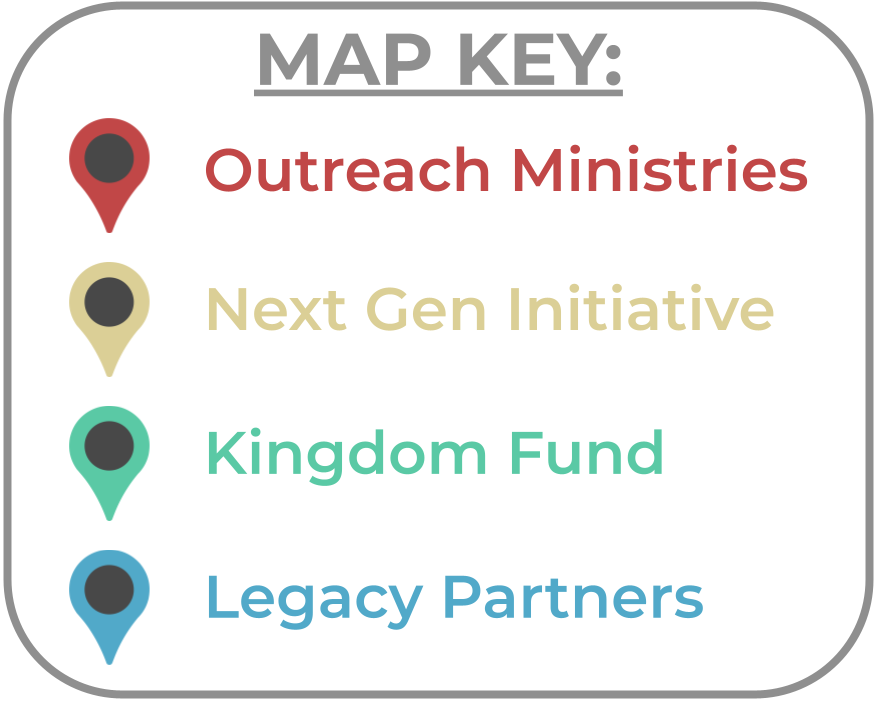
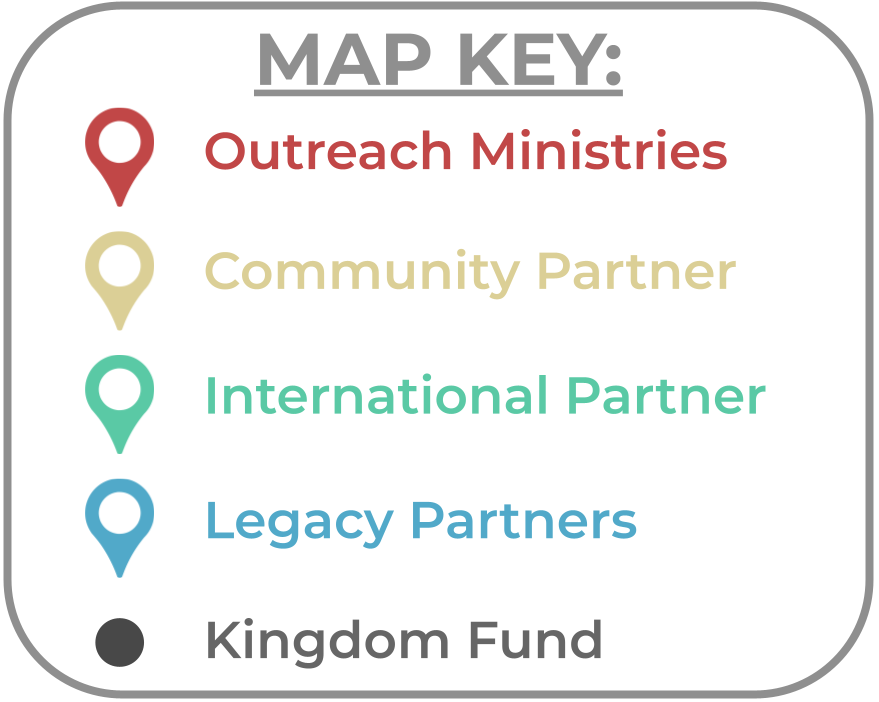
Changed pins to have transparent holes

diff --git a/scripts.js b/scripts.js
@@ -67,18 +67,34 @@ pins[i].addEventListener("mouseover",pinHoverIn);
 pins[i].addEventListener("mouseout",pinHoverOut);
 
 if(pins[i].classList.contains("or")){
-pins[i].setAttribute("href", "pinRed.svg");
+pins[i].setAttribute("href", "pins/pinRed.svg");
 }
-if(pins[i].classList.contains("ng")){
-pins[i].setAttribute("href", "pinYellow.svg");
+if(pins[i].classList.contains("cp")){
+pins[i].setAttribute("href", "pins/pinYellow.svg");
 }
-if(pins[i].classList.contains("kf")){
-pins[i].setAttribute("href", "pinGreen.svg");
+if(pins[i].classList.contains("ip")){
+pins[i].setAttribute("href", "pins/pinGreen.svg");
 }
 if(pins[i].classList.contains("lp")){
-pins[i].setAttribute("href", "pinBlue.svg");
+pins[i].setAttribute("href", "pins/pinBlue.svg");
 }
-else if(pins[i].classList.contains("sf")){
+
+
+if(pins[i].classList.contains("or-kf")){
+    pins[i].setAttribute("href", "pins/pinSolidRed.svg");
+    }
+    if(pins[i].classList.contains("cp-kf")){
+    pins[i].setAttribute("href", "pins/pinSolidYellow.svg");
+    }
+    if(pins[i].classList.contains("ip-kf")){
+    pins[i].setAttribute("href", "pins/pinSolidGreen.svg");
+    }
+    if(pins[i].classList.contains("lp-kf")){
+    pins[i].setAttribute("href", "pins/pinSolidBlue.svg");
+    }
+
+
+ if(pins[i].classList.contains("inset")){
     pins[i].setAttribute("href", "pinGray.svg");
     }
 
@@ -100,40 +116,69 @@ for(var i=0; i<headings.length; i++)
 
 function pinHoverIn(){
 if(this.classList.contains("or")){
-this.setAttribute("href", "pinRedHover.svg");
+this.setAttribute("href", "pins/pinRedHover.svg");
 }
-else if(this.classList.contains("ng")){
-this.setAttribute("href", "pinYellowHover.svg");
+else if(this.classList.contains("cp")){
+this.setAttribute("href", "pins/pinYellowHover.svg");
 }
-else if(this.classList.contains("kf")){
-this.setAttribute("href", "pinGreenHover.svg");
+else if(this.classList.contains("ip")){
+this.setAttribute("href", "pins/pinGreenHover.svg");
 }
 else if(this.classList.contains("lp")){
-this.setAttribute("href", "pinBlueHover.svg");
+this.setAttribute("href", "pins/pinBlueHover.svg");
 }
-else if(this.classList.contains("sf")){
-    this.setAttribute("href", "pinGrayHover.svg");
+
+else if(this.classList.contains("or-kf")){
+    this.setAttribute("href", "pins/pinSolidRedHover.svg");
+    }
+    else if(this.classList.contains("cp-kf")){
+    this.setAttribute("href", "pins/pinSolidYellowHover.svg");
+    }
+    else if(this.classList.contains("ip-kf")){
+    this.setAttribute("href", "pins/pinSolidGreenHover.svg");
+    }
+    else if(this.classList.contains("lp-kf")){
+    this.setAttribute("href", "pins/pinSolidBlueHover.svg");
+    }
+
+else if(this.classList.contains("inset")){
+    this.setAttribute("href", "pins/pinGrayHover.svg");
     }
 else{
-    this.setAttribute("href", "pinHover.svg");
+    this.setAttribute("href", "pins/pinHover.svg");
 }
 }
 
 
 function pinHoverOut(){
     if(this.classList.contains("or")){
-        this.setAttribute("href", "pinRed.svg");
+        this.setAttribute("href", "pins/pinRed.svg");
         }
-        else if(this.classList.contains("ng")){
-        this.setAttribute("href", "pinYellow.svg");
+        else if(this.classList.contains("cp")){
+        this.setAttribute("href", "pins/pinYellow.svg");
         }
-        else if(this.classList.contains("kf")){
-        this.setAttribute("href", "pinGreen.svg");
+        else if(this.classList.contains("ip")){
+        this.setAttribute("href", "pins/pinGreen.svg");
         }
         else if(this.classList.contains("lp")){
-        this.setAttribute("href", "pinBlue.svg");
+        this.setAttribute("href", "pins/pinBlue.svg");
         }
-        else if(this.classList.contains("sf")){
+       
+     if(this.classList.contains("or-kf")){
+            this.setAttribute("href", "pins/pinSolidRed.svg");
+            }
+            else if(this.classList.contains("cp-kf")){
+            this.setAttribute("href", "pins/pinSolidYellow.svg");
+            }
+            else if(this.classList.contains("ip-kf")){
+            this.setAttribute("href", "pins/pinSolidGreen.svg");
+            }
+            else if(this.classList.contains("lp-kf")){
+            this.setAttribute("href", "pins/pinSolidBlue.svg");
+            }
+
+
+        else if(this.classList.contains("inset")){
             this.setAttribute("href", "pinGray.svg");
             }
     else{

diff --git a/index.html b/index.html
@@ -12,7 +12,7 @@
     <image id="map"  x="0" y="0"  href="map.svg"/> 
     
     <image class="lp pin" xpos=".185" ypos=".27" height="10%" href="" name="dc"></image>
-    <image class="sf pin" xpos=".165" ypos=".295" height="10%" href="" name="SF"></image>
+    <image class="inset pin" xpos=".165" ypos=".295" height="10%" href="" name="SF"></image>
     <image class="kf pin" xpos=".155" ypos=".3" height="10%" href="" name="hh"></image>
     <image class="kf pin" xpos=".56" ypos=".265" height="10%" href="" name="ukraine"></image>
     <image class="lp pin" xpos=".12" ypos=".35" height="10%" href="" name="steele"></image>
@@ -20,13 +20,13 @@
     <image class="lp pin" xpos=".054" ypos=".42" height="10%" href="" name="waddell"></image>
     <image class="lp pin" xpos=".225" ypos=".315" height="10%" href="" name="miller"></image>
     
+    <image class="or pin" xpos=".585" ypos=".53" height="10%" href="" name="edaw"></image>
     <image class="kf pin" xpos=".608" ypos=".535" height="10%" href="" name="selamta"></image>
     <image class="kf pin" xpos=".593" ypos=".535" height="10%" href="" name="tti"></image>
     <image class="lp pin" xpos=".605" ypos=".555" height="10%" href="" name="fiem"></image>
     <image class="kf pin" xpos=".595" ypos=".55" height="10%" href="" name="mka"></image>
     <image class="or pin" xpos=".59" ypos=".565" height="10%" href="" name="atf"></image>
     <image class="kf pin" xpos=".598" ypos=".573" height="10%" href="" name="shamida"></image>
-    <image class="or pin" xpos=".58" ypos=".575" height="10%" href="" name="edaw"></image>
 
 ></svg>
 
